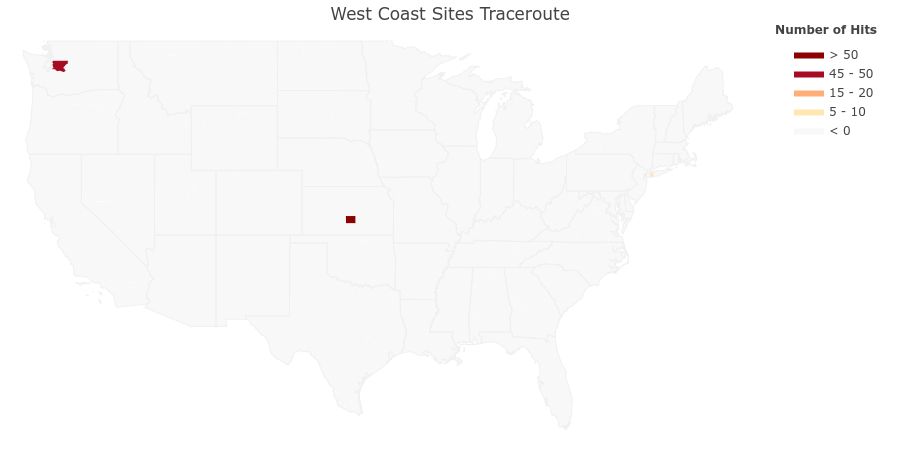
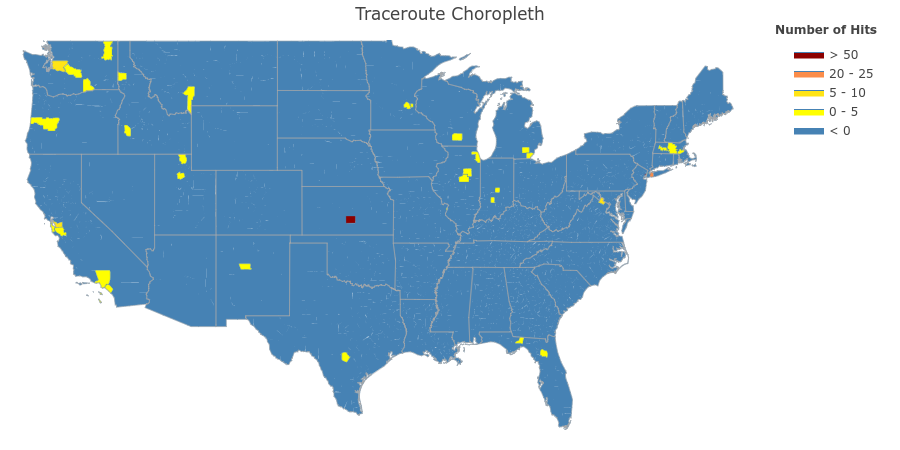
General aesthetic changes and optimization.

diff --git a/LocData.py b/LocData.py
@@ -16,6 +16,7 @@ class LocData:
 	def __init__(self):
 		self.ipAddrs = []
 		self.coords = []
+		self.counties = []
 		self.states = []
 		self.countries = []
 		self.FipsList = []
@@ -28,47 +29,58 @@ class LocData:
 			self.FipsDict[FIPS] = 0
 		counties_text_file.close()
 
-	def getFIPSbyLatLong(self, address,lat, lon):
+	def getFIPSbyLatLong(self, address, lat, lon):
 		params = urlencode({'latitude': lat, 'longitude':lon, 'format':'json'})
 		url = 'https://geo.fcc.gov/api/census/block/find?' + params
 		response = get(url)
 		# print(str(lat) + "," + str(lon))
-		if response.text.find("<html>") == -1:
-			# print(response)
+		if response.text.find("<html>") == -1 and response.json() is not None and response.json()['County']['FIPS'] is not None:
+			self.counties.append(response.json()['County']['name'] + ", " + response.json()['State']['name'])
 			self.ipResponse[address] = response
 			data = response.json()['County']['FIPS']
-			if data is not None:
-				return data.encode('ascii','ignore')
-			else:
-				print("FCC FIPS is None")
+			return data.encode('ascii','ignore')
 		else:
-			print("Bad Response from FCC")
+			print("Bad Response from FCC for ip (" + address + ")\n")
+			print(response.json())
 
 	#replaces geocoder module with GET reqeust to API to avoid query limit
-	def getGeoDataFromIP(self, testIP):
+	def getGeoDataFromIP(self, ip):
 		# sleep(0.25)
-		url = 'http://api.petabyet.com/geoip/' + testIP
+		url = 'http://api.petabyet.com/geoip/' + ip
 		response = get(url)
 		jsonData = response.json()
 		# print(jsonData)
-		lat = jsonData['latitude']
-		lng = jsonData['longitude']
-		country = jsonData['country']
-		if 'region' in jsonData.keys():
-			state = jsonData['region']
+		if 'latitude' in jsonData.keys() and 'longitude' in jsonData.keys():
+			lat = jsonData['latitude']
+			lng = jsonData['longitude']
 		else:
-			state = ""
+			print("Error: \'" + ip + "\' does not have a longitude or latitude.")
+			print(jsonData)
+			raw_input("Paused\n")
+		if 'country' not in jsonData.keys():
+			print("Error: \'" + ip + "\' does not have a country.")
+			# print(jsonData)
+			country = 'N/A'
+		else:
+			country = jsonData['country']
+		if 'region' not in jsonData.keys():
+			print("Error: \'" + ip + "\' does not have a state.")
+			# print(jsonData)
+			state = 'N/A'
+		else:
+			state = jsonData['region']
 		return GeoData(country, state, lat, lng)
 
-	def genFIPSList(self, ipAddrs):
-		self.ipAddrs.extend(ipAddrs)
-		for address in ipAddrs:
-			g = self.getGeoDataFromIP(address)
+	# Takes a dictionary with an IP Address as key and Count as Value
+	def genFIPS(self, ipAddrs):
+		self.ipAddrs = ipAddrs.keys()
+		for ip in self.ipAddrs:
+			g = self.getGeoDataFromIP(ip)
 			self.countries.append(g.country)
 			self.states.append(g.state)
 			self.coords.append([g.lat,g.lng])
-			fip = self.getFIPSbyLatLong(address,g.lat, g.lng)
+			fip = self.getFIPSbyLatLong(ip, g.lat, g.lng)
 			if fip is not None:
 				self.FipsList.append(fip)
-				self.FipsDict[fip] += 1
-
+				self.FipsDict[fip] += ipAddrs[ip]
+			print("Done generating FIPS of IP: " + ip)

diff --git a/Choropleth.py b/Choropleth.py
@@ -19,26 +19,49 @@ class Choropleth:
 
 		fips = data.keys()
 		values = data.values()
-		intervals = range(0,51,5)
+		intervals = range(0,51,5) # 10 Values
 
-		colors = ['#F8F8F8','#ffffe0','#ffe6b2','#ffcb91','#ffae79','#fe906a','#f47461','#e75758','#d53c4c','#c0223b','#a70b24','#8b0000']
+		colors = ['#4682B4','#ffff00','#ffe416','#ffc82c','#ffab3f','#fb8d4b','#f27151','#e55550','#d33a48','#be2239','#a70a23','#8b0000']
+		county_outline_color = '#4682B4'
 
 		fig = ff.create_choropleth(
 			fips=fips, values=values, scope=['USA'],
 			show_state_data=True,
 			colorscale=colors,
 			binning_endpoints=intervals,
-			show_hover=True, centroid_marker={'size':6,'opacity': 1, 'color':'black'},
-			asp=2.9, title='West Coast Sites Traceroute',
+			show_hover=True, centroid_marker={'opacity': 0},
+			asp=2.9, title='Traceroute Choropleth',
 			legend_title='Number of Hits',
-			round_legend_values=True
+			round_legend_values=True,
+			county_outline={'color': county_outline_color, 'width': 0.3},
+			state_outline={'color': '#A8A8A8', 'width': 0.5}
 		)
-		# py.plot(fig, filename='Traceroute Choropleth')
+		# df_flight_paths = pd.read_csv('https://raw.githubusercontent.com/plotly/datasets/master/2011_february_aa_flight_paths.csv')
+		# df_flight_paths.head()
+		# flight_paths = []
+		# for i in range( len( df_flight_paths ) ):
+		# 	flight_paths.append(
+		# 		dict(
+		# 			type = 'scattergeo',
+		# 			locationmode = 'USA-states',
+		# 			lon = [ df_flight_paths['start_lon'][i], df_flight_paths['end_lon'][i] ],
+		# 			lat = [ df_flight_paths['start_lat'][i], df_flight_paths['end_lat'][i] ],
+		# 			mode = 'lines',
+		# 			line = dict(
+		# 				width = 1,
+		# 				color = 'red',
+		# 			),
+		# 			opacity = float(df_flight_paths['cnt'][i])/float(df_flight_paths['cnt'].max()),
+		# 		)
+		# 	)
+
 		pio.write_image(fig, "Output_Heatmap.png")
-		print("Heatmap Created!")
+		print("Heatmap PNG file was saved to drive.")
+		py.plot(fig, filename='Traceroute Choropleth')
 
 	def createPlot(self):
 		self.plotData(self.locData)
+		print("Heatmap Created!")
 
 	def testPlot(self):
 		testData = {'34017':1,'20155':6,'36059':12,'53033':17,'36001':21,'32510':27,'33001':34,'40001':39,'04001':40,'33001':45,'39001':57}

diff --git a/TracerouteData.py b/TracerouteData.py
@@ -4,13 +4,18 @@ from re import findall
 class TracerouteData:
 
 	def __init__(self, dest):
-		self.dest = dest
+		if type(dest) is list:
+			self.dest = dest
+		else:
+			self.dest = [dest]
 		self.flags=	{
 						"m":"255",
 						"q":"1",
 						"I":"",
 						"n":""
 					}
+		self.ipsList = []
+		self.ipsDict = {}
 
 	def updateProtocol(self, protocol):
 		switcher = {
@@ -40,7 +45,6 @@ class TracerouteData:
 			if value != "":
 				option += " " + value
 			tr.append(option)
-		tr.append(self.dest)
 		return tr
 
 	def removeLocalIPs(self,ipAddrs):
@@ -49,10 +53,25 @@ class TracerouteData:
 				ipAddrs.remove(address)
 		return ipAddrs
 
+	def genIPsList(self):
+		result = []
+		for ip in self.dest:
+			process = Popen(self.traceroute2List() + [ip], stdout=PIPE)		# Initialize Popen
+			output = process.communicate()[0]								# Get output
+			output = output[output.find("\n")+1:]							# Skip the first line
+			output = findall("(?:[0-9]{1,3}\.){3}[0-9]{1,3}",output)		# Get IP
+			output = self.removeLocalIPs(output)							# Remove all Local IPs since they don't have location data
+			result += output
+			print("Done with Traceroute of IP: " + ip)
+		self.ipsList = result
+	
+	def genIPsDict(self):
+		for ip in self.ipsList:
+			if ip in self.ipsDict:
+				self.ipsDict[ip] += 1
+			else:
+				self.ipsDict[ip] = 1
+
 	def genIPs(self):
-		process = Popen(self.traceroute2List(), stdout=PIPE)
-		output = process.communicate()[0]
-		output = output[output.find("\n")+1:]
-		output = findall("(?:[0-9]{1,3}\.){3}[0-9]{1,3}",output)
-		output = self.removeLocalIPs(output)
-		return output
+		self.genIPsList()
+		self.genIPsDict()

diff --git a/TracerouteHeatmap.py b/TracerouteHeatmap.py
@@ -3,18 +3,26 @@ from Choropleth import Choropleth
 from LocData import LocData
 
 # Choropleth.openHelp()
+
+filename = "westcoastips.txt"
+ips_file = open(filename,"r")
+input_ips = []
+for line in ips_file:
+	input_ips.append(line.strip())
 locData = LocData()
-for number in range(0,10):
-	# trData = TracerouteData("172.64.111.36")	# Cali
-	trData = TracerouteData("128.95.155.197") 	# Washington State
-	trData.updateProtocol("ICMP")
-	ips = trData.genIPs()
-	print(ips)
-	locData.genFIPSList(ips)
-print(locData.FipsList)
+print(input_ips)
+trData = TracerouteData(input_ips) 	
+trData.updateProtocol("ICMP")
+output_ips = trData.genIPs()
+output_dict = trData.ipsDict
+print(trData.ipsDict)
+locData.genFIPS(output_dict)
 # print(locData.FipsDict)
+print(locData.FipsList)
+print(locData.counties)
 # print(locData.countries)
 
 choropleth = Choropleth(locData.FipsDict)
 choropleth.createPlot()
+# choropleth = Choropleth({})
 # choropleth.testPlot()
